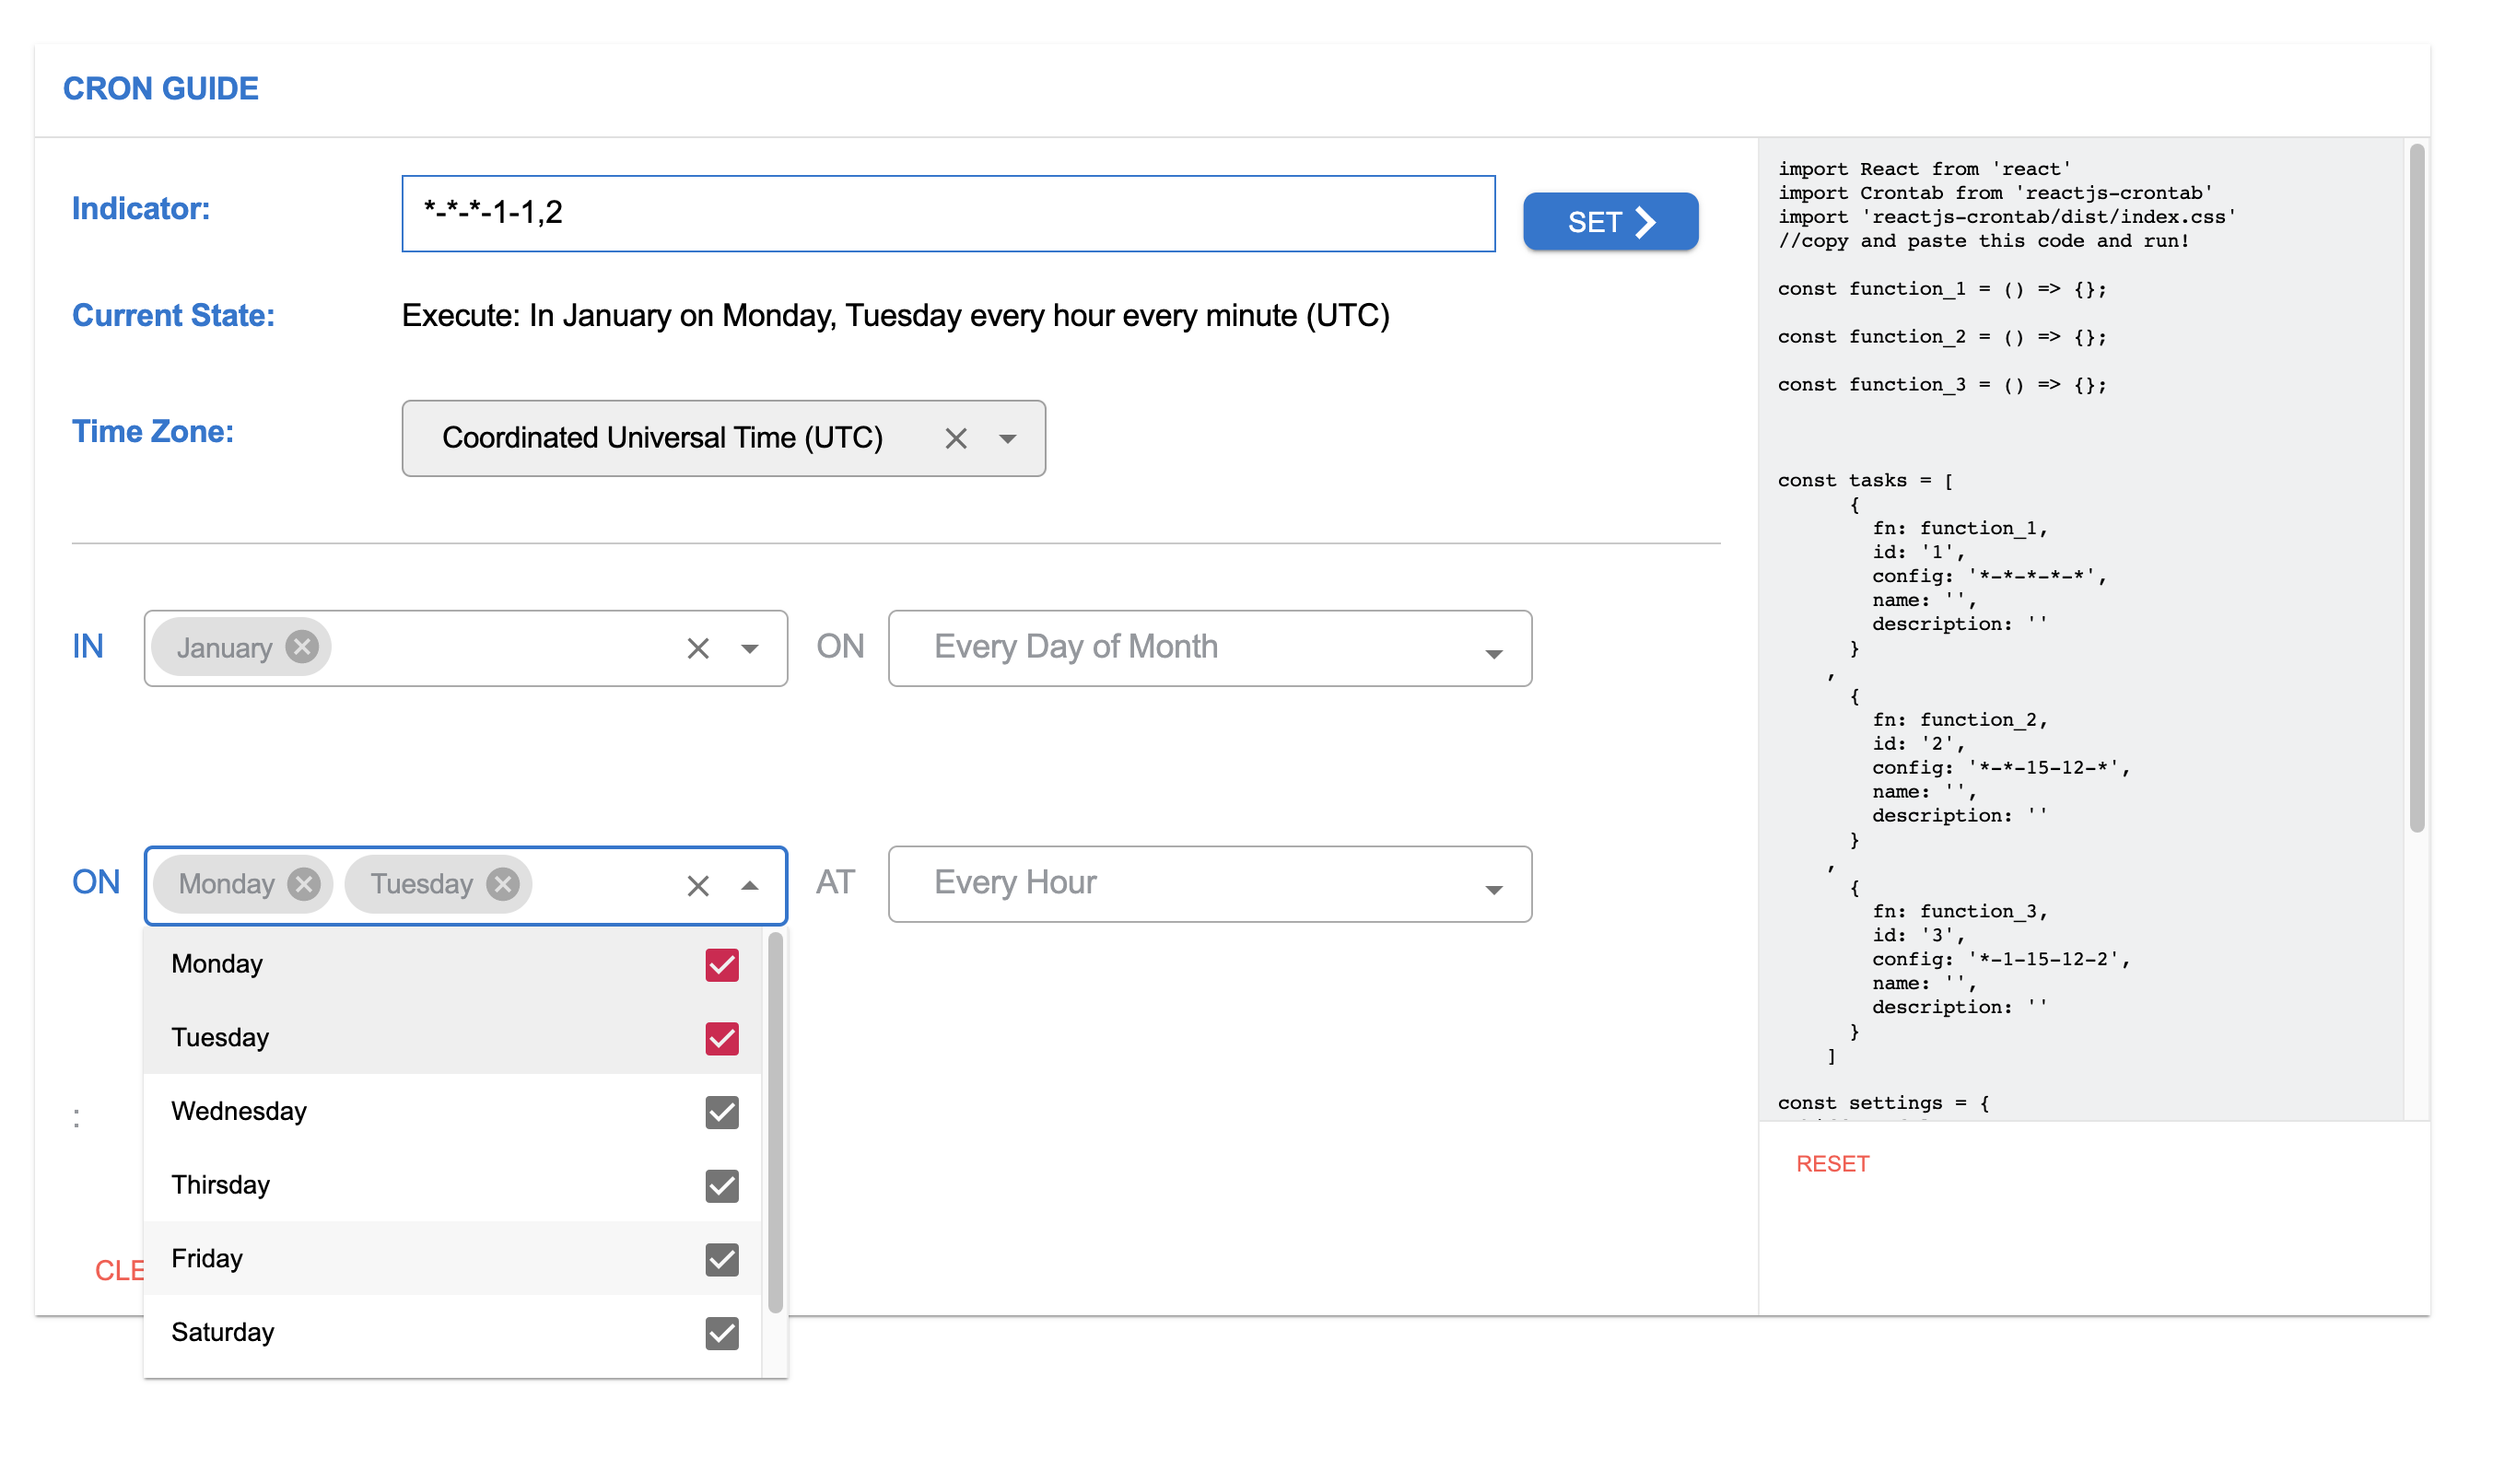
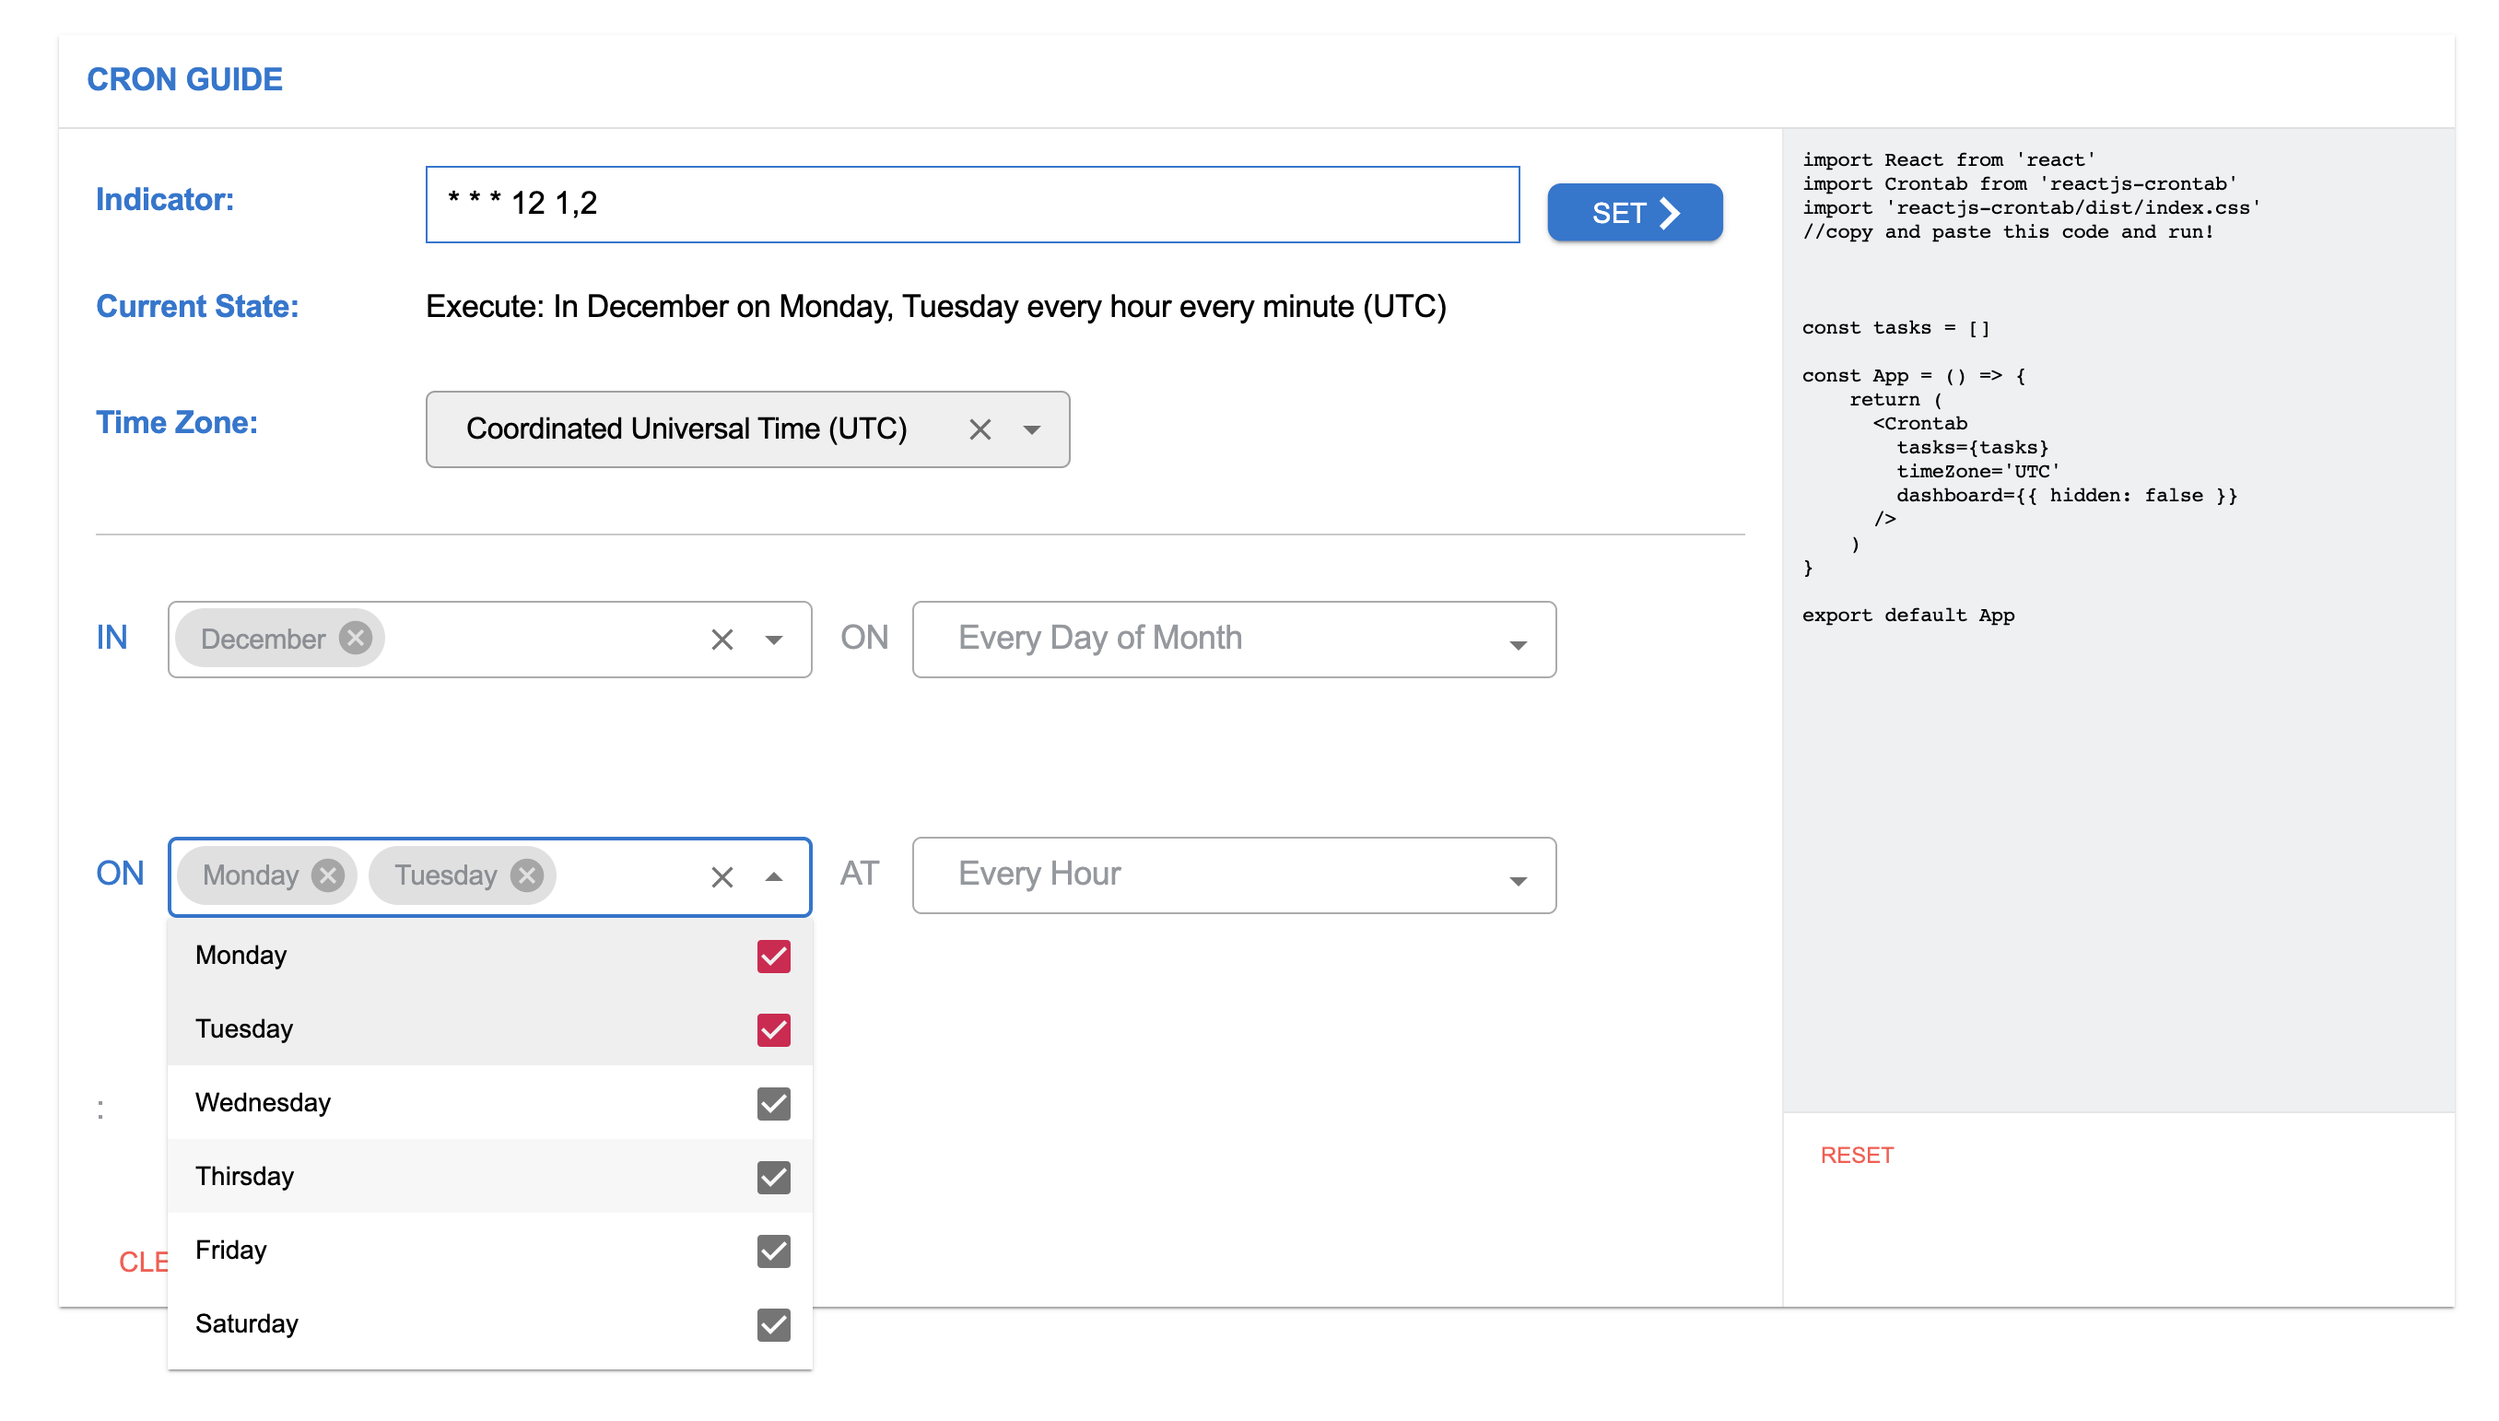
updated imgs

diff --git a/demo/src/App.js b/demo/src/App.js
@@ -3,17 +3,9 @@ import Crontab from 'reactjs-crontab'
 import 'reactjs-crontab/dist/index.css'
 //copy and paste this code and run!
     
-const function_1 = () => {
-  console.log("called 1")
-};
+const function_1 = () => {};
   
-const function_2 = () => {
-  console.log("called 2")
-};
-  
-const function_3 = () => {
-  console.log("called 3")
-};
+const function_2 = () => {};
   
 
     
@@ -21,7 +13,7 @@ const tasks = [
       {
         fn: function_1,
         id: '1',
-        config: '* * * 12 *',
+        config: '* * * 2,3 *',
         name: '',
         description: ''
       }
@@ -29,32 +21,18 @@ const tasks = [
       {
         fn: function_2,
         id: '2',
-        config: '* 15 * 12 1',
-        name: '',
-        description: ''
-      }
-    ,
-      {
-        fn: function_3,
-        id: '3',
-        config: '11,7,9 15 * 12 1',
+        config: '* * * 2,3 *',
         name: '',
         description: ''
       }
     ]
-
-const settings = {
-  hidden: false
-}
-
-const timeZone = 'Asia/Seoul'
     
 const App = () => {
     return (
       <Crontab 
         tasks={tasks}
-        timeZone={timeZone}
-        dashboard={settings}
+        timeZone='Africa/Khartoum'
+        dashboard={{ hidden: false }}
       />
     )
 }
